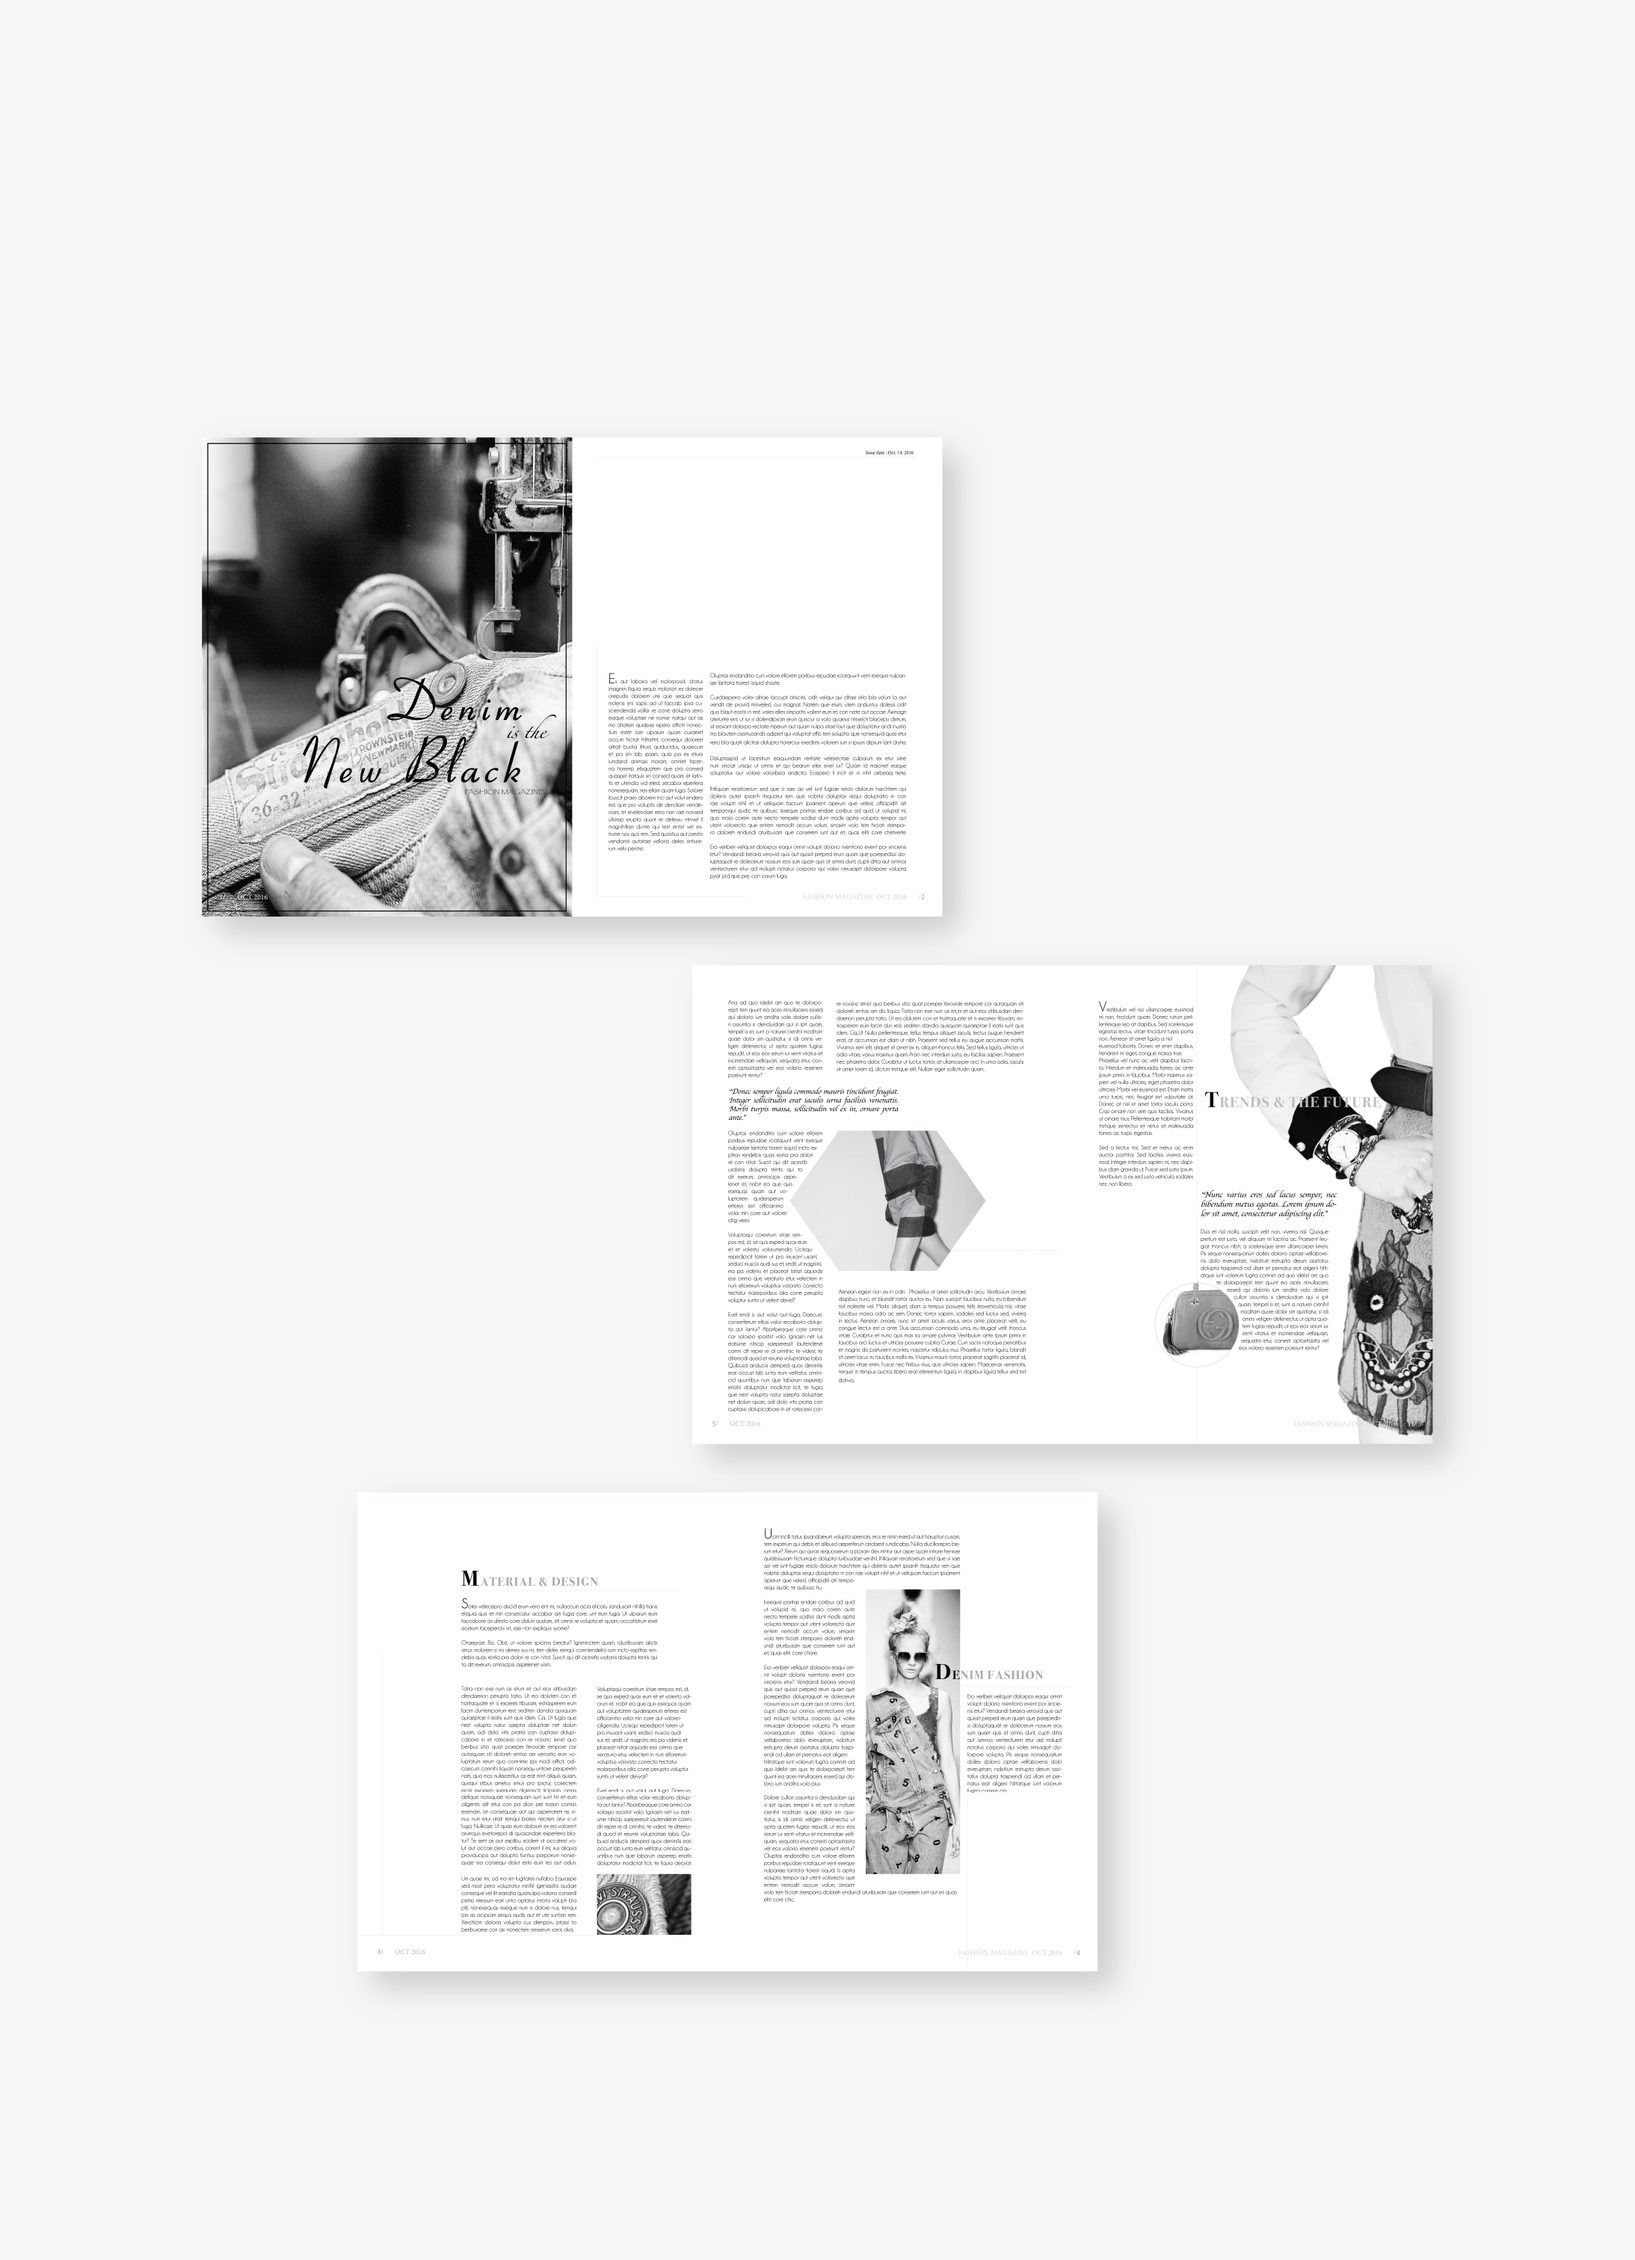
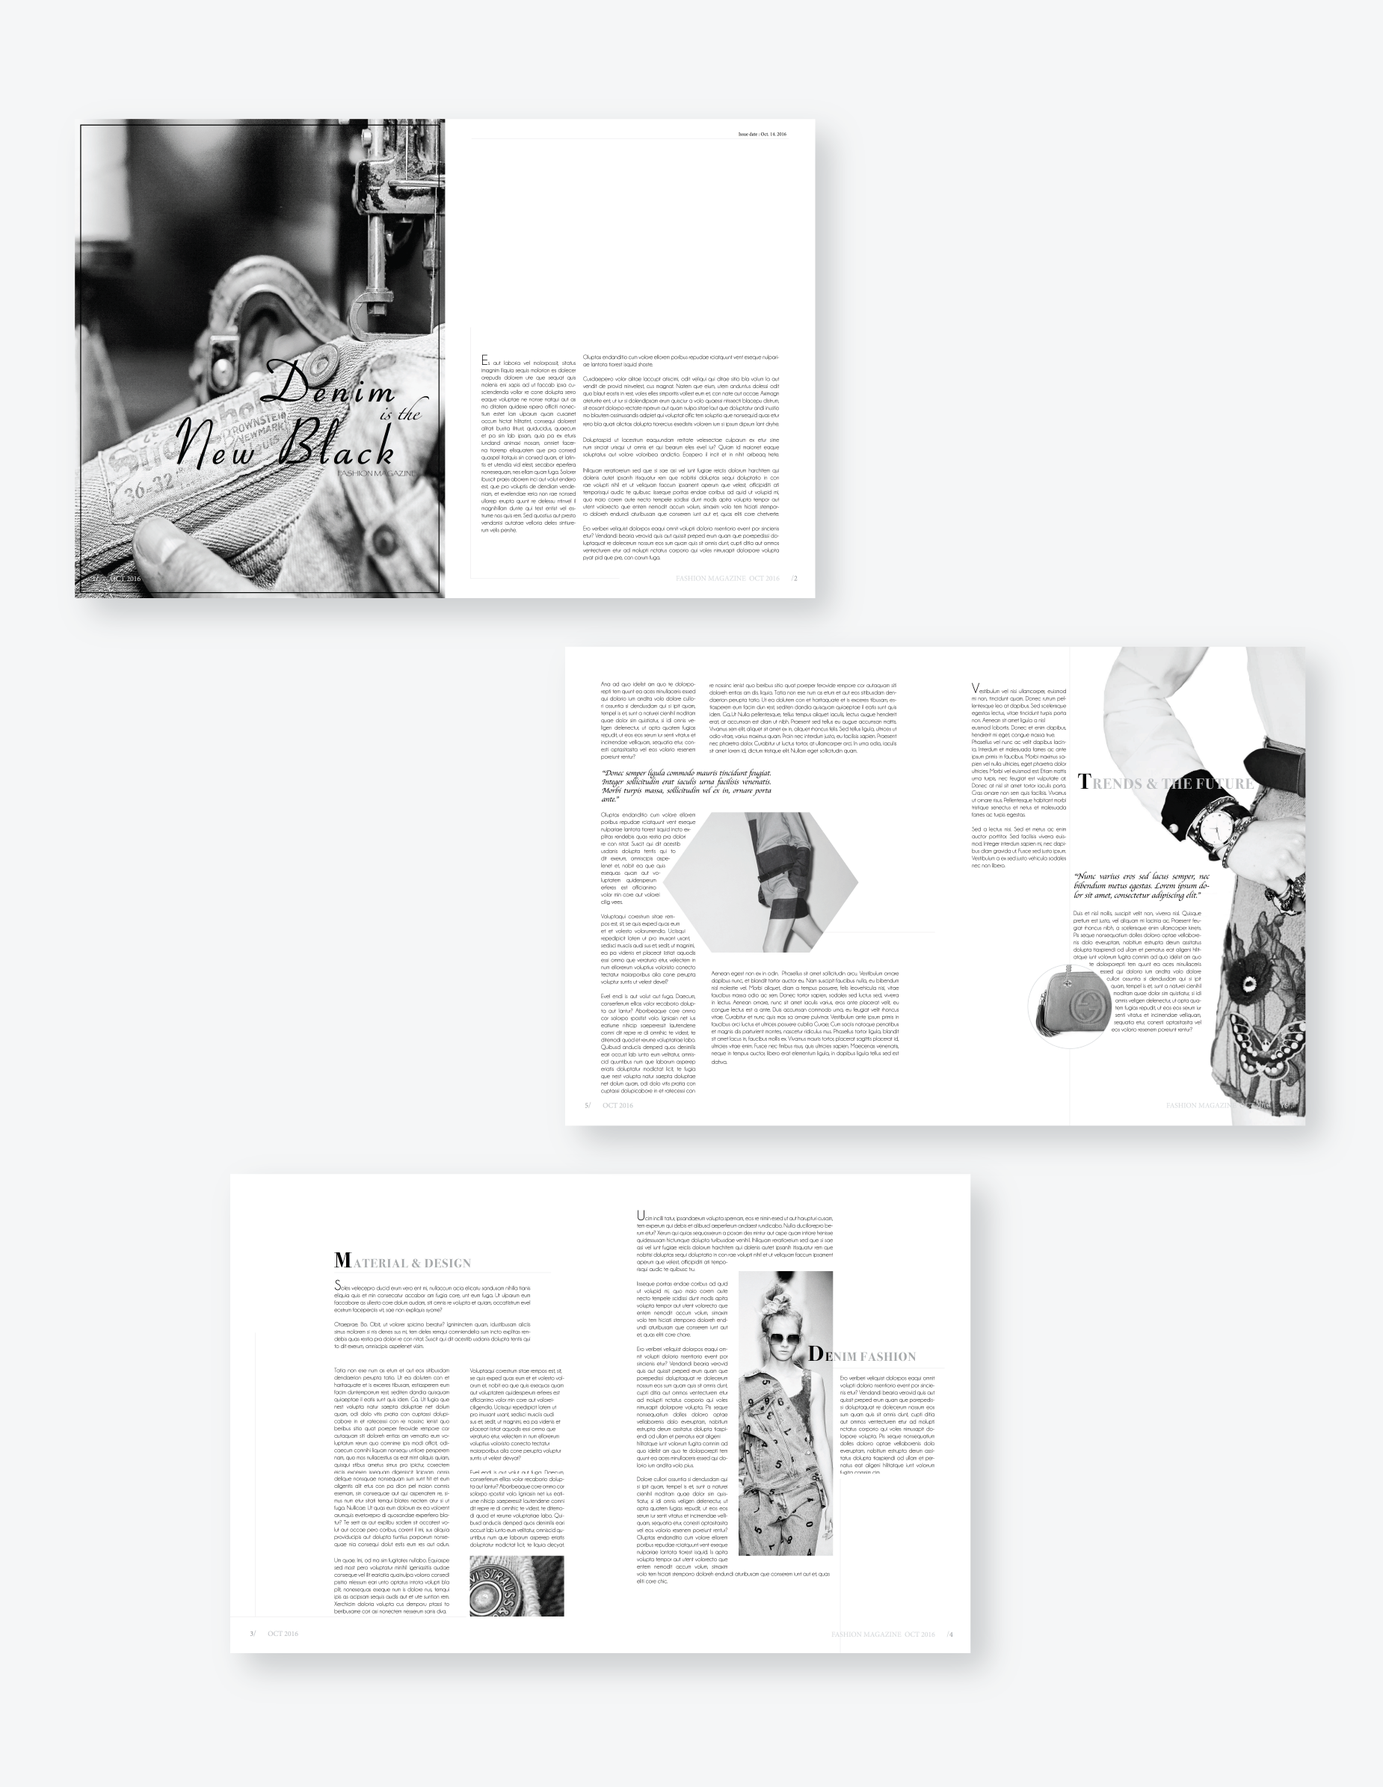
Updated process analysis
Filled artificial and content

Changed region(s): [[0.0308, 0.0619, 0.9551, 0.9598], [0.8319, 0.3715, 0.8627, 0.4025]]

diff --git a/starbucks.html b/starbucks.html
@@ -30,19 +30,15 @@
     <div class="container-1">
     <section class="block-3-5">
       <section class="element">
-        <a href="starbucks.html"><img src="css/sources/starbucks.png" alt="HTML tutorial" width=100%></a>
-
-        <p>Lorem ipsum dolor sit amet, in graeco oporteat vel, vix tibique dissentias in. Id pro veri cetero incorrupte, pro suas offendit dissentiet ex. Ut eos accumsan facilisis reprehendunt. Vel periculis voluptaria at, quot audire tibique ad cum. Id postea electram principes mel. Democritum definiebas ne vim, cum in eligendi invenire repudiare, ludus graeco maiorum mei ne.</p>
-
-        <iframe src="http://www.sfu.ca/~ngsuenn/P02/product-listing.html"style="height:500px;width:100%;"></iframe>
-
-        <iframe src="http://www.sfu.ca/~ngsuenn/P02/product-listing.html"style="height:500px;width:30%;"></iframe>
-
-        <h4>Style Guide</h4>
-        <iframe src="http://www.sfu.ca/~ngsuenn/P02/index.html"style="height:500px;width:100%;"></iframe>
-
-        <h4>Challenge</h4>
-        <p>Lorem ipsum dolor sit amet, in graeco oporteat vel, vix tibique dissentias in. Id pro veri cetero incorrupte, pro suas offendit dissentiet ex. Ut eos accumsan facilisis reprehendunt. Vel periculis voluptaria at, quot audire tibique ad cum. Id postea electram principes mel. Democritum definiebas ne vim, cum in eligendi invenire repudiare, ludus graeco maiorum mei ne.</p>
+          <img src="css/sources/starbucks.png" alt="HTML tutorial" width=100%>
+        <br><br>
+        <p>This project is created in the course IAT 339: Web Design and Development.
+          In a team of two, we proudly chose Starbucks Reserve as our simulated client and re-designed the webpage for it.
+          Considering the brand identity, online customers, persona, colour palette, font choices, and responsive structure,
+          we created style guide, interactive elements for the pages and finally consolidated them in our webpage.</p>
+      </section>
+      <section class="element">
+        <img src="css/sources/starbucks-product-pg.png" alt="HTML tutorial" width=100%>
       </section>
     </section>
 
@@ -50,13 +46,64 @@
       <section class="element">
         <h2>web deveopment</h2>
         <h3>Starbucks Reserve&#8482;</h3>
-        <h4>Contribution</h4>
-        <p>Lorem ipsum dolor sit amet, in graeco oporteat vel, vix tibique dissentias in. Id pro veri cetero incorrupte, pro suas offendit dissentiet ex. Ut eos accumsan facilisis reprehendunt. Vel periculis voluptaria at, quot audire tibique ad cum. Id postea electram principes mel. Democritum definiebas ne vim, cum in eligendi invenire repudiare, ludus graeco maiorum mei ne.</p>
-      </section>
+        <p>A brand new responsive site for Starbucks Reserve&#8482;.</p>
+        <div class="button-view-pg"><a href="http://www.sfu.ca/~ngsuenn/P02/home.html">view webpage&#187;</a></div><br>
+        <h5>Feb 2019</h5>
+        <h5>Team member: Jin Lin</h5>
+        <h5>Created with HTML and CSS</h5>
+        </section>
     </section>
-
   </div>
   </section>
+
+    <section>
+      <div class="container-1">
+      <section class="block-3-5">
+        <section class="element">
+          <h4>Intention</h4>
+          <p>The colour of black and gold give a connection of the in store’s interiors to the online customers.
+            The combination of these two colours also make the page stand out from the usual Starbucks website.
+            By targeting the young adult, the website is intended to create a modern,
+            luxury and delightful experience to our users.</p>
+            <div class="button-view-pg"><a href="http://www.sfu.ca/~ngsuenn/P02/index.html">Here is the Style Guide</a></div><br><br>
+            <img src="css/sources/color-starbucks.png" alt="HTML tutorial" width=65%><img><br><br>
+        </section>
+      </section>
+      <section class="block-2-5">
+        <section class="element">
+          <img src="css/sources/starbucks-instore.png" alt="HTML tutorial" width=100% align="right"><img>
+        </section>
+      </section>
+      </div>
+    </section>
+
+      <section>
+      <div class="container-1">
+        <section class="block-2-5">
+          <section class="element">
+            <img src="css/sources/github.png" alt="HTML tutorial" width=100%><img><br><br>
+          </section>
+        </section>
+
+        <section class="block-3-5">
+          <section class="element">
+            <h4>Challenge</h4>
+              <p>The most challenging part in this project was the advanced communication through Github.
+                Since it was the first time learning Github, we spent a lot of time to figure how it works and how to avoid the duplication when staging our files.
+                Role division would be the essential part before using Github. We usually worked in different parts in the pages not only to avoid jamming and confusion due to the software,
+                but it also reduce any conflicts about the design decisions that we made.</p>
+                <br>
+              <h4>Outcomes</h4>
+              <p>The learning and usage of Github was the most significant part for me in this project.
+                Although it was a confusion and it was hard to master it at the beginning,
+                it provided much convenience for our team project that we could work individually and effectively.
+                Without any time constraint, Github was a great platform to the success of our website.</p>
+
+          </section>
+        </section>
+      </div>
+      </section>
+
 
   <footer>
      <h5>&nbsp;&copy;2019 ARELLA NG. ALL RIGHTS RESERVED.</h5>

diff --git a/index.html b/index.html
@@ -100,7 +100,7 @@
             <section class="element" style="text-align:right;">
               <h3>Magazine Spread</h3>
               <p>Lorem ipsum dolor sit amet, in graeco oporteat vel, vix tibique dissentias in. Id pro veri cetero incorrupte, pro suas offendit dissentiet ex.</p>
-              <div class="button-view-pg"><a href="#">view project&#187;</a></div>
+              <div class="button-view-pg"><a href="magazine.html">view project&#187;</a></div>
             </section>
           </section>
           <section class="block-panel">
@@ -160,46 +160,6 @@
       </section>
     </div>
   </section>
-
-
-<!-- PROJECTS ANALYSIS SECTION I // -->
-  <section>
-    <h2>Projects Analysis I <br>Web Development</h2>
-
-    <section class="element">
-      <h3>Starbucks Reserve&#8482;</h3>
-      <p>Lorem ipsum dolor sit amet, in graeco oporteat vel, vix tibique dissentias in. Id pro veri cetero incorrupte, pro suas offendit dissentiet ex. Ut eos accumsan facilisis reprehendunt. Vel periculis voluptaria at, quot audire tibique ad cum. Id postea electram principes mel. Democritum definiebas ne vim, cum in eligendi invenire repudiare, ludus graeco maiorum mei ne.</p>
-
-      <iframe src="http://www.sfu.ca/~ngsuenn/P02/product-listing.html"style="height:500px;width:100%;"></iframe>
-
-      <iframe src="http://www.sfu.ca/~ngsuenn/P02/product-listing.html"style="height:500px;width:30%;"></iframe>
-
-      <h4>Style Guide</h4>
-      <iframe src="http://www.sfu.ca/~ngsuenn/P02/index.html"style="height:500px;width:100%;"></iframe>
-
-      <h4>Challenge</h4>
-      <p>Lorem ipsum dolor sit amet, in graeco oporteat vel, vix tibique dissentias in. Id pro veri cetero incorrupte, pro suas offendit dissentiet ex. Ut eos accumsan facilisis reprehendunt. Vel periculis voluptaria at, quot audire tibique ad cum. Id postea electram principes mel. Democritum definiebas ne vim, cum in eligendi invenire repudiare, ludus graeco maiorum mei ne.</p>
-
-      <h4>Contribution</h4>
-      <p>Lorem ipsum dolor sit amet, in graeco oporteat vel, vix tibique dissentias in. Id pro veri cetero incorrupte, pro suas offendit dissentiet ex. Ut eos accumsan facilisis reprehendunt. Vel periculis voluptaria at, quot audire tibique ad cum. Id postea electram principes mel. Democritum definiebas ne vim, cum in eligendi invenire repudiare, ludus graeco maiorum mei ne.</p>
-    </section>
-  </section>
-
-  <!-- PROJECTS ANALYSIS SECTION II // -->
-    <section>
-      <h2>Projects Analysis II<br>Graphic Design</h2>
-
-      <section class="element">
-        <h3>Magazine Spread</h3>
-        <p>Lorem ipsum dolor sit amet, in graeco oporteat vel, vix tibique dissentias in. Id pro veri cetero incorrupte, pro suas offendit dissentiet ex. Ut eos accumsan facilisis reprehendunt. Vel periculis voluptaria at, quot audire tibique ad cum. Id postea electram principes mel. Democritum definiebas ne vim, cum in eligendi invenire repudiare, ludus graeco maiorum mei ne.</p>
-
-        <h4>Challenge</h4>
-        <p>Lorem ipsum dolor sit amet, in graeco oporteat vel, vix tibique dissentias in. Id pro veri cetero incorrupte, pro suas offendit dissentiet ex. Ut eos accumsan facilisis reprehendunt. Vel periculis voluptaria at, quot audire tibique ad cum. Id postea electram principes mel. Democritum definiebas ne vim, cum in eligendi invenire repudiare, ludus graeco maiorum mei ne.</p>
-
-        <h4>Contribution</h4>
-        <p>Lorem ipsum dolor sit amet, in graeco oporteat vel, vix tibique dissentias in. Id pro veri cetero incorrupte, pro suas offendit dissentiet ex. Ut eos accumsan facilisis reprehendunt. Vel periculis voluptaria at, quot audire tibique ad cum. Id postea electram principes mel. Democritum definiebas ne vim, cum in eligendi invenire repudiare, ludus graeco maiorum mei ne.</p>
-      </section>
-    </section>
 
 
 <!-- CITATION SECTION // -->

diff --git a/magazine.html b/magazine.html
@@ -1,0 +1,63 @@
+<!DOCTYPE html>
+<html>
+
+<head>
+
+  <meta charset="utf-8">
+  <title>P03 - Style Guide Template</title>
+  <link href="https://fonts.googleapis.com/css?family=Ubuntu:300,400,700|Source+Code+Pro:200" rel="stylesheet">
+  <link href="https://fonts.googleapis.com/css?family=Karla:400,700" rel="stylesheet">
+	<link href="https://fonts.googleapis.com/css?family=Playfair+Display:400,400i,700" rel="stylesheet">
+  <link href="https://fonts.googleapis.com/css?family=Roboto" rel="stylesheet">
+  <link rel="stylesheet" href="css/main.css">
+  <link rel="stylesheet" href="css/normalize.css">
+  <meta name="viewport" content="width=device-width, initial-scale=1">
+</head>
+
+<body>
+  <header>
+    <h1>ARELLA NG</h1>
+    <div class="nav">
+      <a href="home.html">Home</a>
+      <a href="projects.html">Projects</a>
+      <a href="about.html">About</a>
+      <a href="index.html">Style Guide</a>
+    </div>
+  </header>
+
+  <section>
+
+    <div class="container-1">
+    <section class="block-3-5">
+      <section class="element">
+          <img src="css/sources/magazine/magazine-prototype.png" alt="HTML tutorial" width=100%>
+        <br><br>
+        <p>This project was created in the course IAT 102: Graphic Design. In a team of three, our team had
+          created a fashion magazine spread "Denim is the New Black". My role in this project was to generate
+          and gather different possible ideations and provided possible technical supports. </p>
+      </section>
+      <section class="element">
+        <img src="css/sources/magazine/magazine-p1.jpg" alt="HTML tutorial" width=100%>
+        <img src="css/sources/magazine/magazine-p2.jpg" alt="HTML tutorial" width=100%>
+        <img src="css/sources/magazine/magazine-p3.jpg" alt="HTML tutorial" width=100%>
+      </section>
+    </section>
+
+    <section class="block-2-5">
+      <section class="element">
+        <h2>graphic design</h2>
+        <h3>Fashion Magazine Spread</h3>
+        <p>"Denim is the New Black" - A fashion magazine spread.</p>
+        <h5>2017</h5>
+        <h5>Created with Adobe InDesign</h5>
+        </section>
+    </section>
+  </div>
+  </section>
+
+  <footer>
+     <h5>&nbsp;&copy;2019 ARELLA NG. ALL RIGHTS RESERVED.</h5>
+  </footer>
+
+</body>
+</html>

diff --git a/css/main.css b/css/main.css
@@ -47,6 +47,7 @@ code {
   flex-wrap: wrap;
   flex-direction: row;
   align-items: flex-start;
+  width: 100%;
 }
 
 .block-3-5 {
@@ -56,9 +57,20 @@ code {
 
 .block-2-5 {
   padding-top: 1em;
+  flex-basis: 40%;
+  margin: 0;
+}
+
+.block-4-5 {
+  flex-basis: 70%;
+  margin: 0;
+}
+
+.block-1-5 {
   flex-basis: 30%;
   margin: 0;
 }
+
 
 /*
   VISUAL ELEMENTS -------------------
@@ -111,9 +123,11 @@ div.button-bk-to-top {
   text-decoration: none;
   font-weight: 500;
   transition-duration: 0.3s;
-  border: solid 1.2px #ffd500;
-  background-color: #ffd500;
+  border: solid 1.2px black;
+  background-color: black;
   color: white;
+  transition: 0.5s;
+  transform: translateX(12px);
 }
 
 .button-bk-to-top a:hover {
@@ -183,7 +197,7 @@ p {
   margin-top: 0;
   margin-bottom: 1.5em;
   line-height: 2em;
-  font-size: 0.9rem;
+  font-size: 0.85rem;
   font-weight: 400;
   width: 100%;
 }
@@ -219,8 +233,8 @@ p {
 
 .nav a:hover, .dropdown-content a:hover {
   text-decoration: none;
-  transition-duration: 0.3s;
-  transform: translateX(-5px);
+  transition-duration: 0.5s;
+  transform: translateX(-8px);
   color: black;
 }
 
